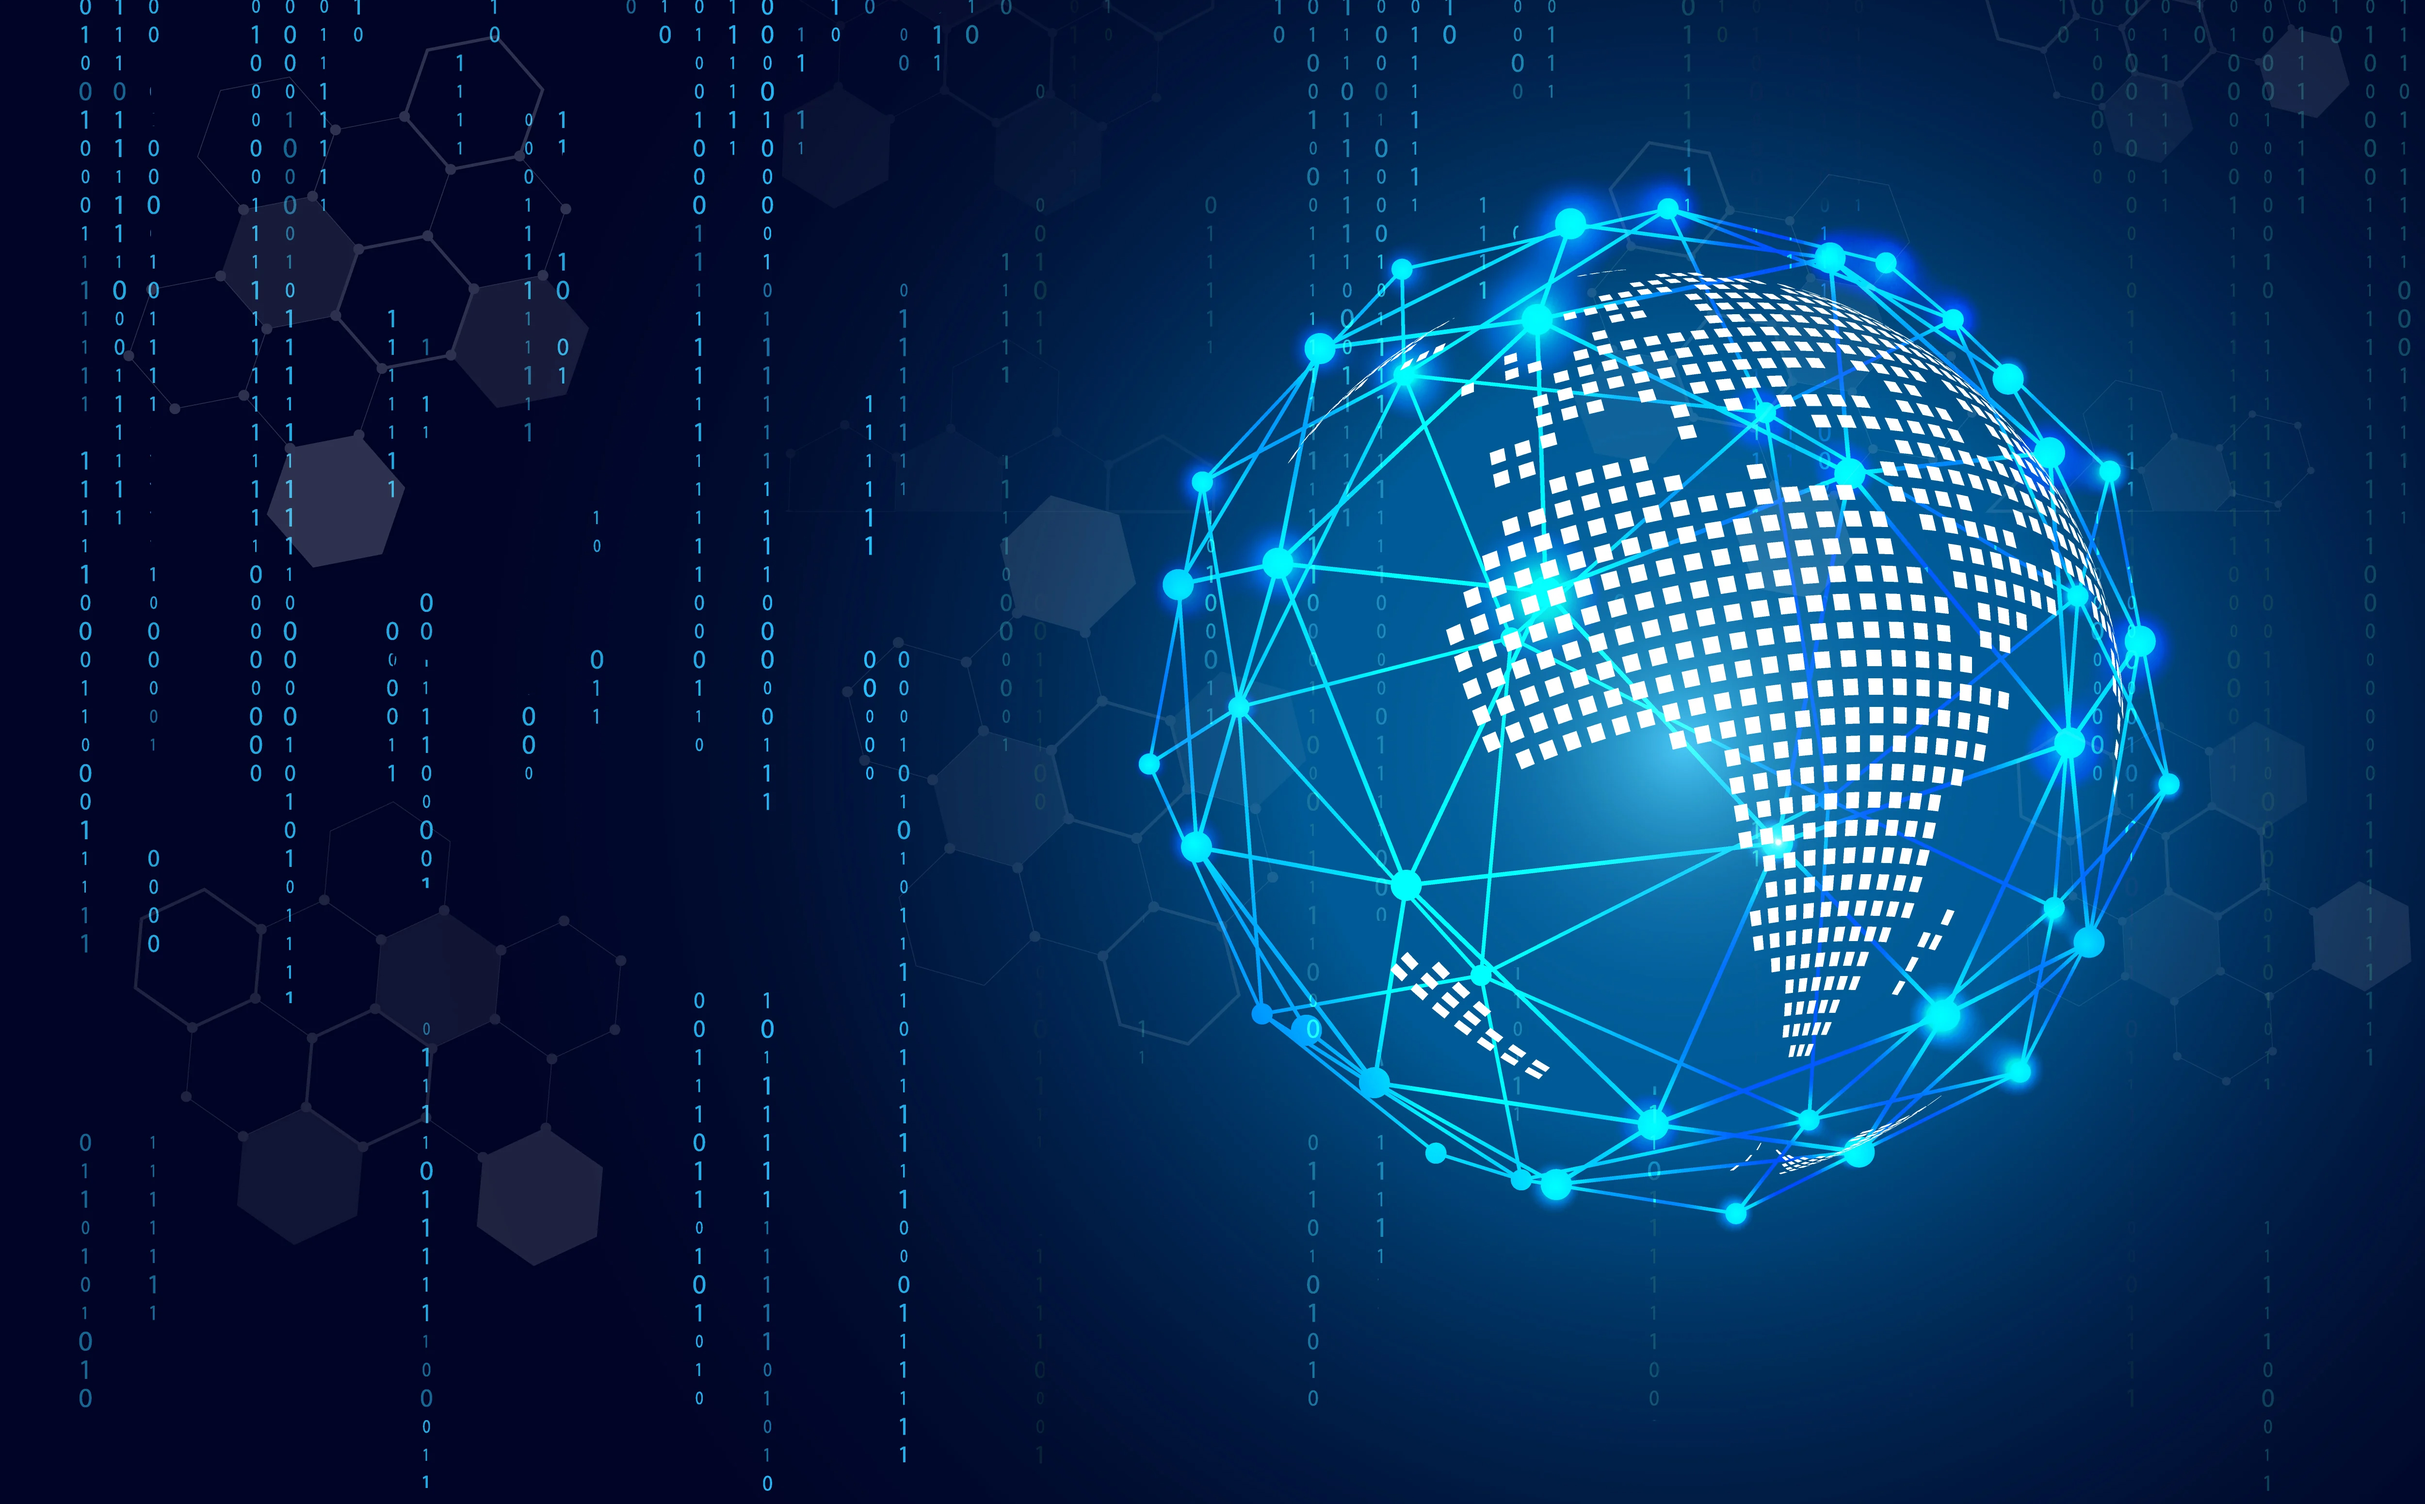
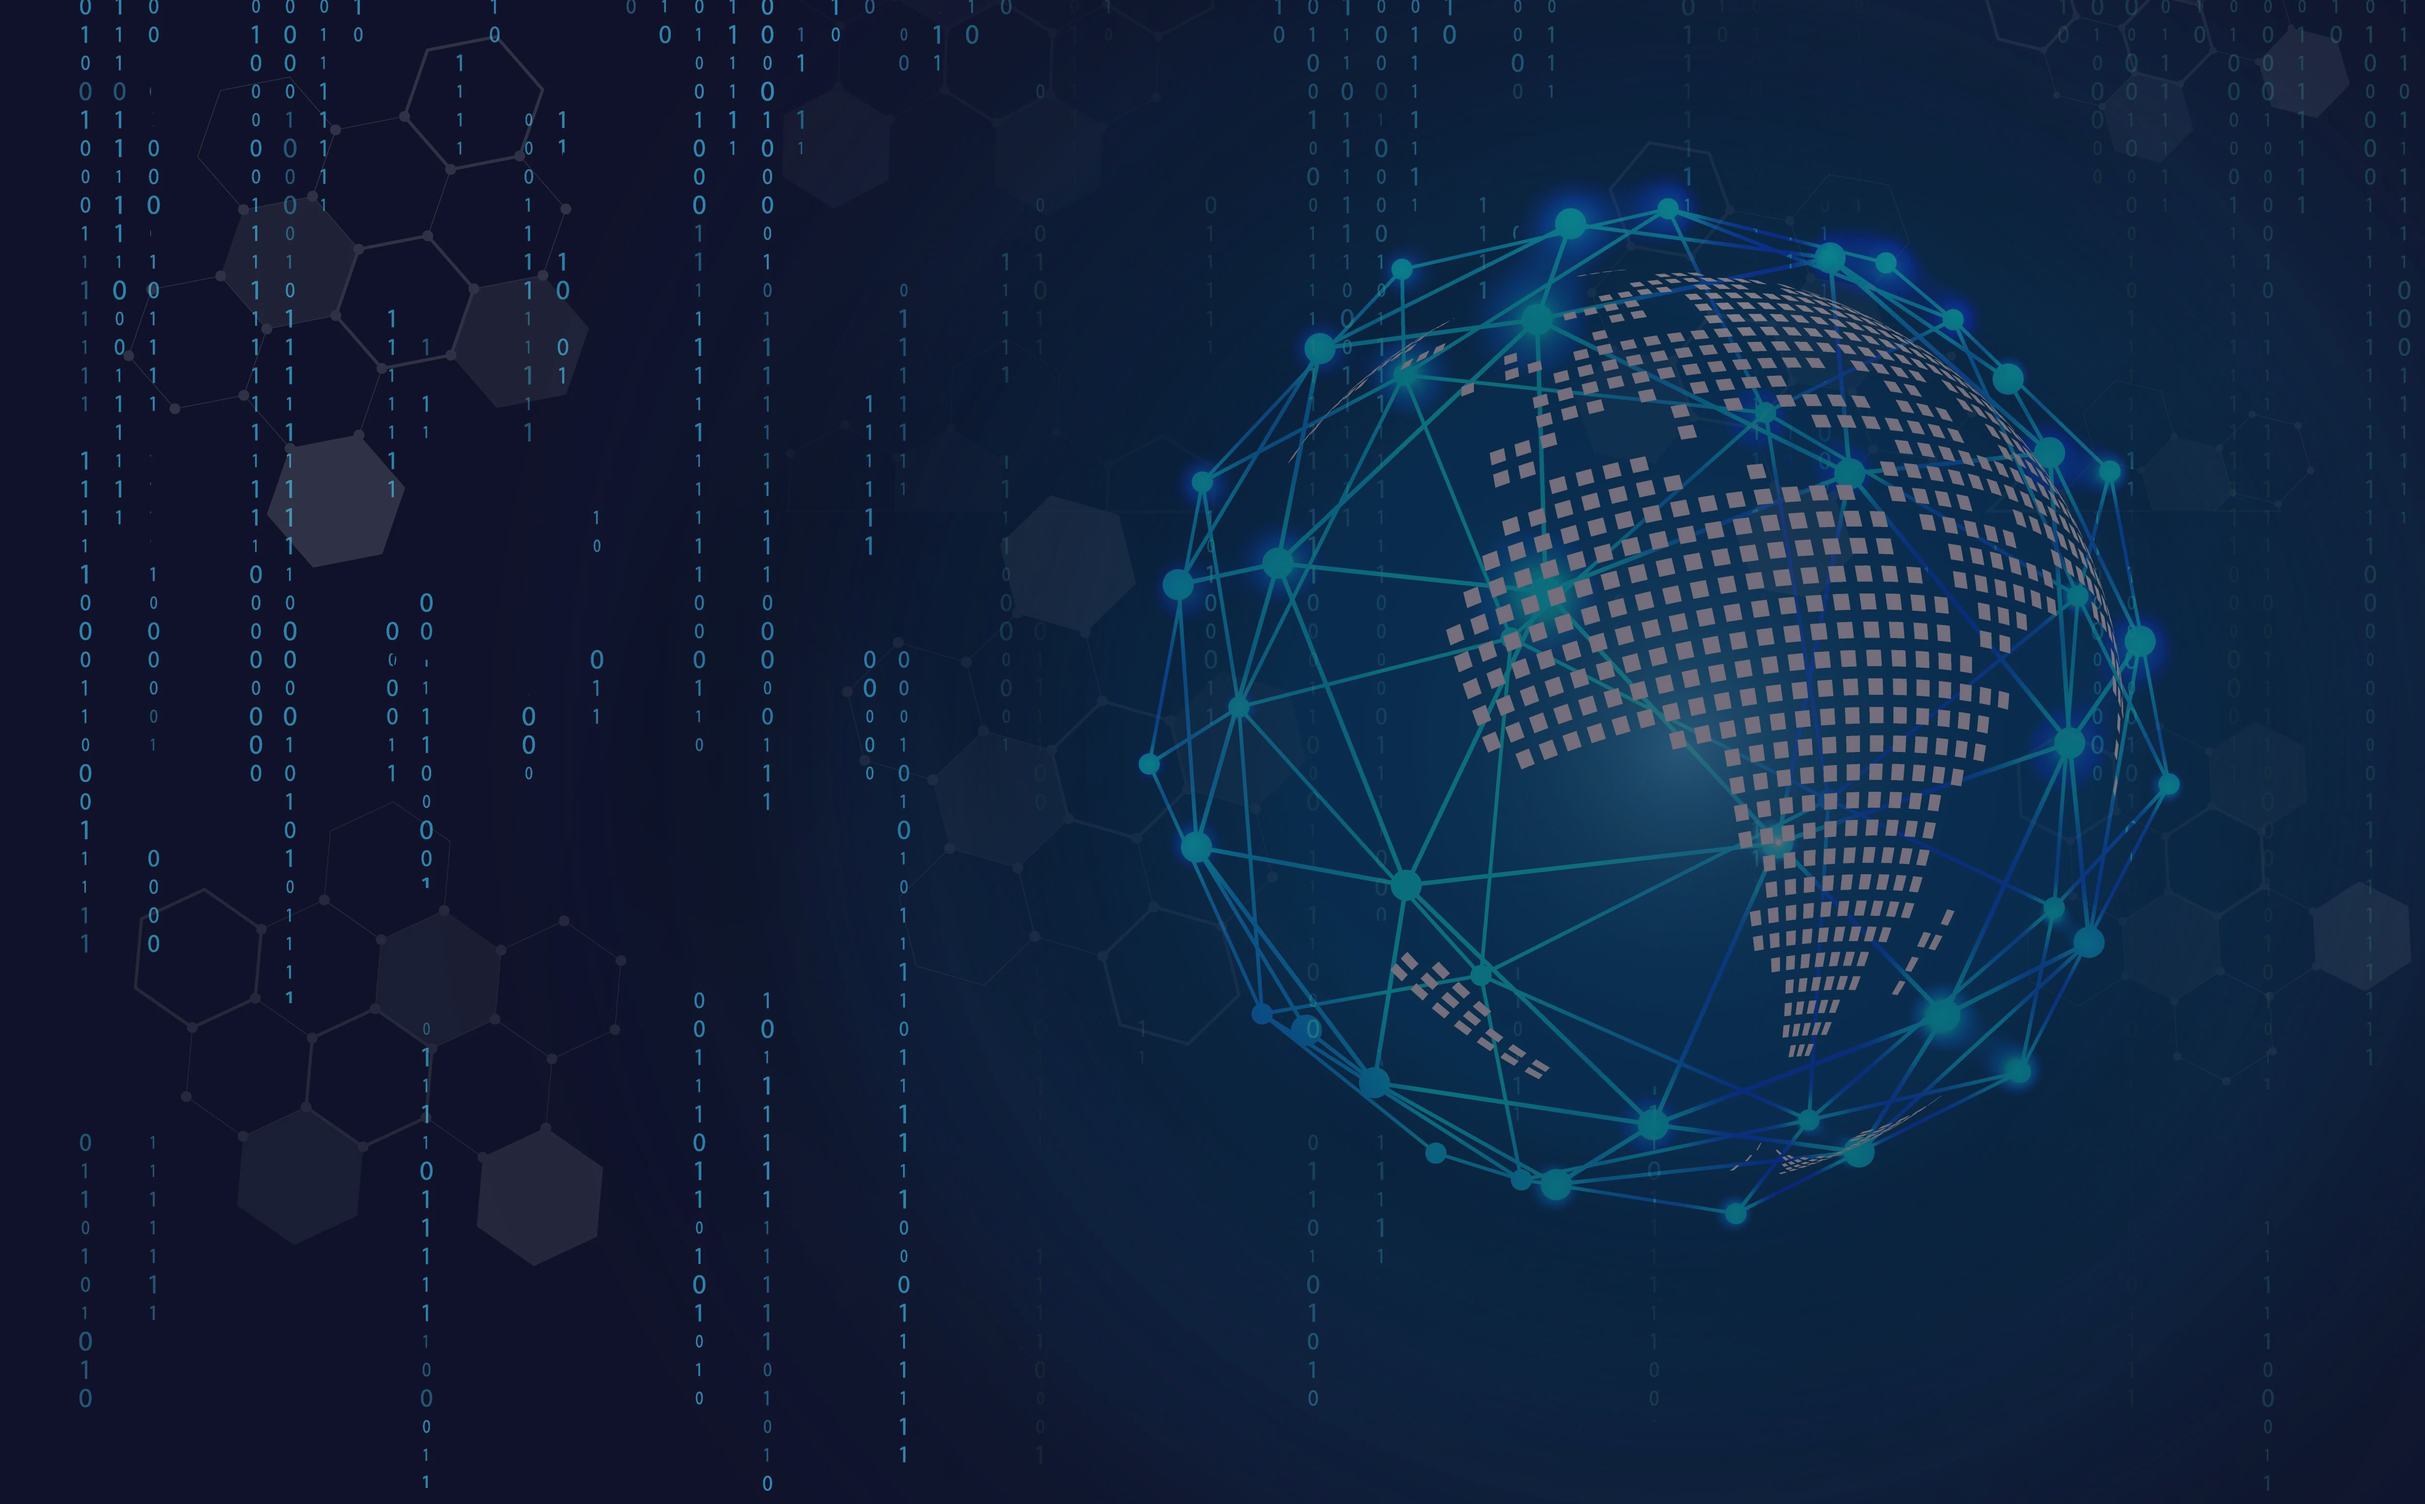
update

diff --git a/contact.html b/contact.html
@@ -35,13 +35,27 @@
                 <form>
                     <div class="form-group">
                         <label for="nome" style="margin-bottom: 7px; margin-top: 7px; opacity: 1;">Nome completo</label>
-                        <input type="text" class="form-control" id="name">
+                        <input type="text" class="form-control" id="name" placeholder="Seu nome">
                     </div>
                     <div class="form-group">
                         <label for="email" style="margin-bottom: 7px; margin-top: 7px;">Email</label>
                         <input type="email" class="form-control" id="email" placeholder="nome@email.com">
                     </div>
                     <label for="motivoContato" style="margin-bottom: 7px; margin-top: 7px;">Qual motivo do contato?</label>
+                    <div class="form-group" id="motivoContato" style="margin-bottom: 10px;">
+                        <div class="form-check form-check-inline">
+                            <input class="form-check-input" type="radio" name="inlineRadioOptions" id="inlineRadio1" value="option1">
+                            <label class="form-check-label" for="inlineRadio1">Dúvidas</label>
+                          </div>
+                          <div class="form-check form-check-inline">
+                            <input class="form-check-input" type="radio" name="inlineRadioOptions" id="inlineRadio2" value="option2">
+                            <label class="form-check-label" for="inlineRadio2">Cotação</label>
+                          </div>
+                          <div class="form-check form-check-inline">
+                            <input class="form-check-input" type="radio" name="inlineRadioOptions" id="inlineRadio3" value="option3">
+                            <label class="form-check-label" for="inlineRadio3">Reclamações</label>
+                          </div>
+                    </div>
                     <select class="form-control" id="motivoContato">
                         <option>Dúvidas</option>
                         <option>Contratar</option>

diff --git a/css/style.css b/css/style.css
@@ -28,7 +28,7 @@ html,
 body {
   height: 100%;
   background-color: rgb(51, 51, 51) !important;
-  background: url("../images/bg.png") no-repeat center center fixed; 
+  background: url("../images/bg.jpg") no-repeat center center fixed; 
   -webkit-background-size: cover;
   -moz-background-size: cover;
   -o-background-size: cover;
